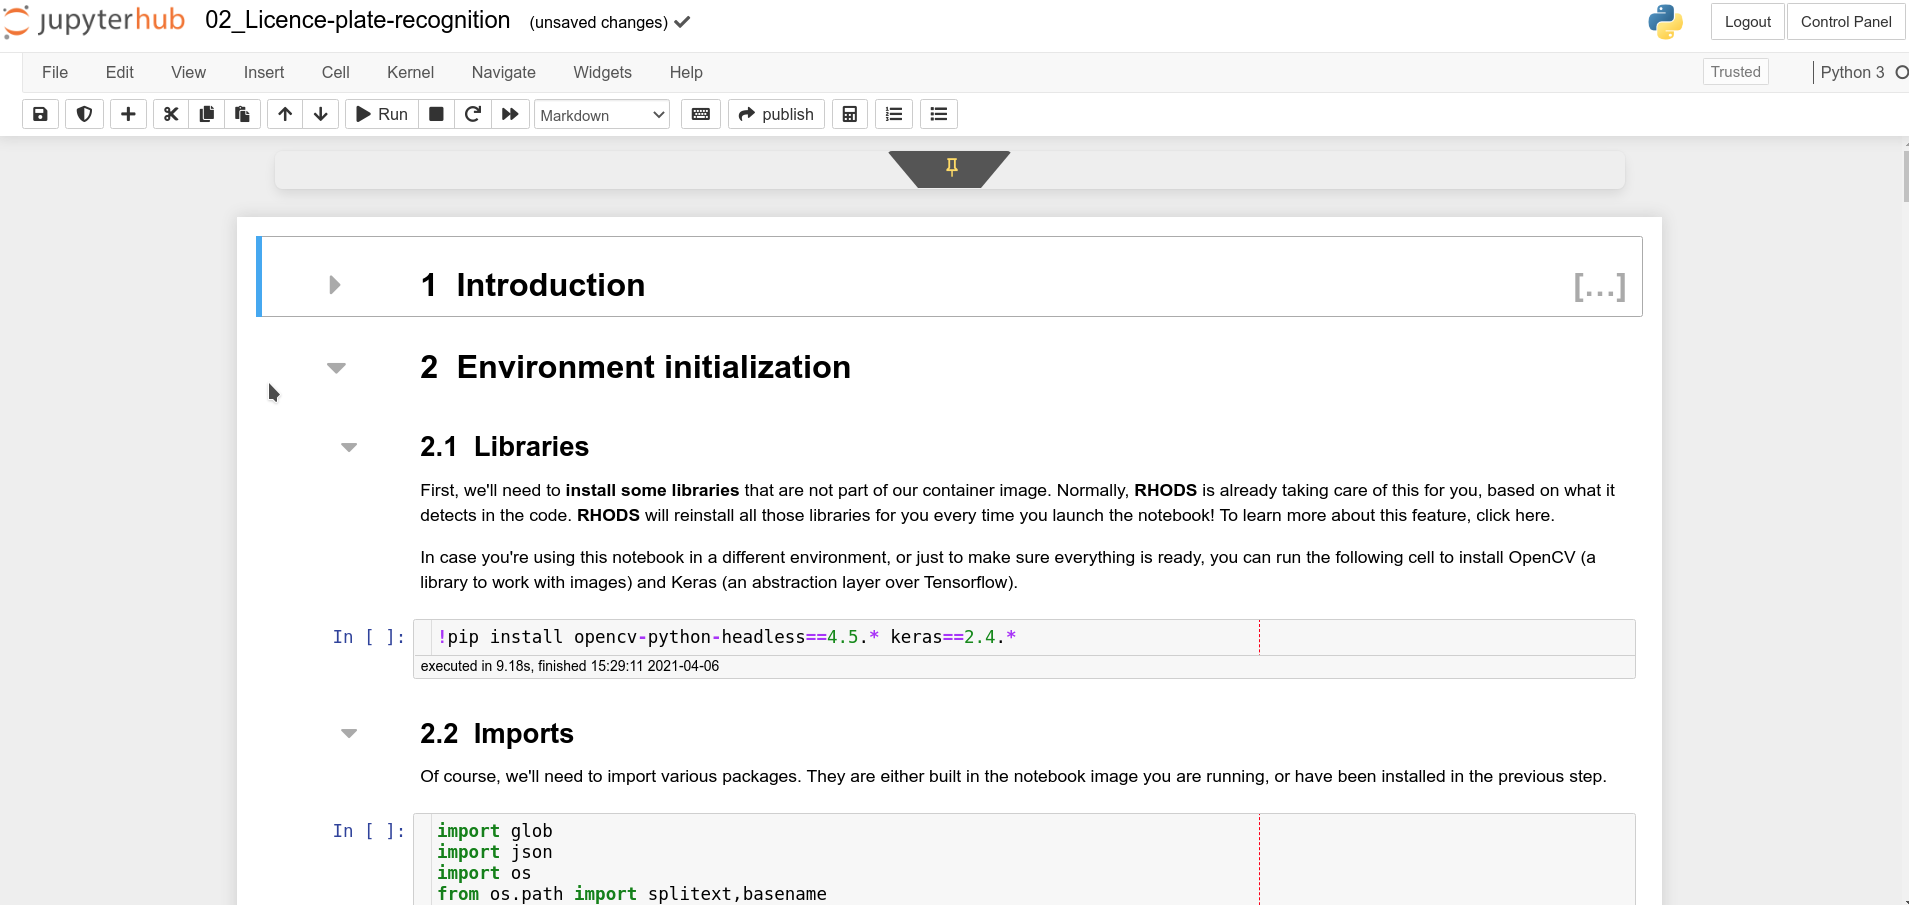
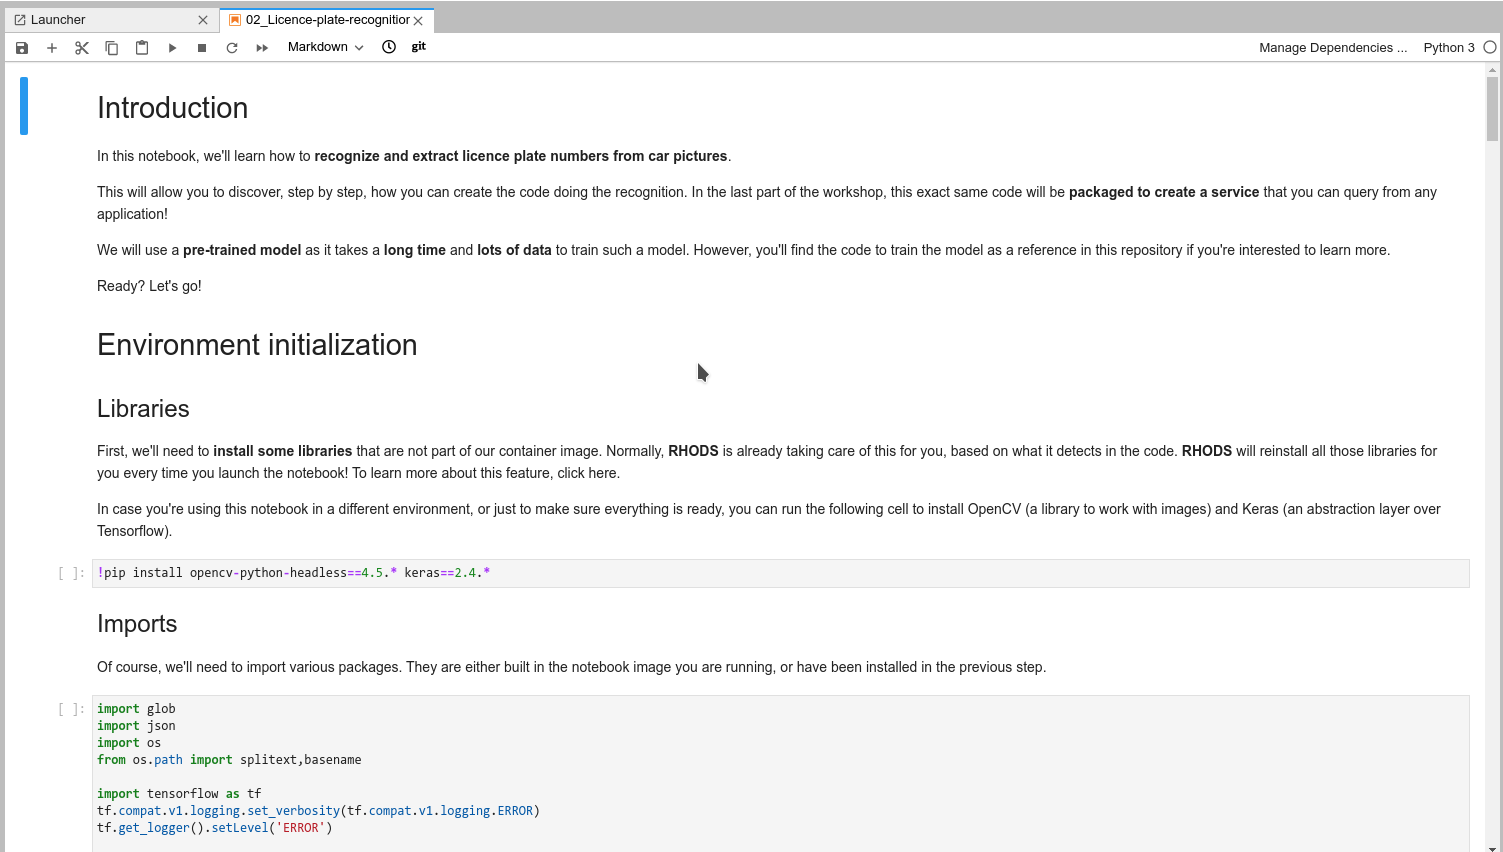
rhods env

diff --git a/docs/step3.md b/docs/step3.md
@@ -48,10 +48,16 @@ Therefore the name **Notebook**: it's exactly like if you were taking notes abou
 
 Now that we have covered the basics, just give it a try!
 
-* In your Jupyter environment (the file explorer-like interface), there is file called `01_sanbdbox.ipynb`. Double-click on it to launch the notebook (it will open another tab). Please feel free to experiment, run the cells, add some more, create functions,... You can do what you want, it's your environment, there is no risk of breaking anything or impacting other users. This environment isolation is also a great advantage brought by **RHODS**.
+* In your Jupyter environment (the file explorer-like interface), there is file called `01_sanbdbox.ipynb`. Double-click on it to launch the notebook (it will open another tab in the content section of the environment). Please feel free to experiment, run the cells, add some more, create functions,... You can do what you want, it's your environment, there is no risk of breaking anything or impacting other users. This environment isolation is also a great advantage brought by **RHODS**.
+  
+* You can create a new notebook by selecting `File`->`New`->`Notebook`from the menu on the top left, then select a Python 3 kernel. This instructs Jupyter that we want to create a new notebook where the code cells will be run using a Python 3 kernel. We could have different kernels, with different languages or versions that we can run into notebooks, but that's a story for another time...
 
-* You can also create a new notebook by selecting `New`->`Python 3`from the menu on the top right. This instructs Jupyter that we want to create a new notebook where the code cells will be run using a Python 3 kernel. We could have different kernels, with different languages or versions that we can run into notebooks, but that's a story for another time...
+* You can also create a notebook by simply clicking on the icon on the launcher:
 
-* If you want to learn more about notebooks, just go [there](https://jupyter.org/){:target="_blank"} .
+{:refdef: style="text-align: center;"}
+![alt text](./assets/img/new_notebook.png "Run cell")
+{: refdef}
+
+* If you want to learn more about notebooks, head to [this page](https://jupyter.org/){:target="_blank"} .
 
 Now that you're more familiar with notebooks, you're ready to [go to the next section](step4.html)

diff --git a/docs/step2.md b/docs/step2.md
@@ -10,31 +10,32 @@ You are now inside you Jupyter environment. As you can see, it's a web-based env
 
 In the "file-browser" like window you're in right now, you'll find the files and folders that are saved inside your own personal space inside **RHODS**. It's pretty empty right now though... So the first thing we will do is to bring the content of the workshop inside this environment.
 
-* On the upper right side click on `New`, then select `Terminal`:
+* On the left toolbar, click on the Git icon:
 
 {:refdef: style="text-align: center;"}
-![alt text](./assets/img/new_terminal.png "Launch a new Terminal")
+![alt text](./assets/img/git_icon.png "Git")
 {: refdef}
 
-This will open a new Tab on your browser, with access to a prompt.
+* Then click on "Clone a Repository":
 
-* From this promt, enter this command to copy the content of the workshop inside your environment:
+{:refdef: style="text-align: center;"}
+![alt text](./assets/img/clone_repo.png "Git")
+{: refdef}
 
-```bash
-git clone https://github.com/rh-aiservices-bu/licence-plate-workshop.git
-```
+* Enter this URL, `https://github.com/rh-aiservices-bu/licence-plate-workshop.git`, then click on clone:
 
-The content is now copied, with something that should look like:
+{:refdef: style="text-align: center;"}
+![alt text](./assets/img/clone_start.png "Git")
+{: refdef}
 
-```bash
-Cloning into 'licence-plate-workshop'...
-remote: Enumerating objects: 92, done.
-remote: Counting objects: 100% (92/92), done.
-remote: Compressing objects: 100% (71/71), done.
-remote: Total 92 (delta 18), reused 78 (delta 11), pack-reused 0
-Unpacking objects: 100% (92/92), 20.00 MiB | 542.00 KiB/s, done.
-```
+* It takes a few seconds, after which you can double-clik and navigate to the newly-created folder, `licence-plate-workshop`:
 
-* You can now just close this Terminal tab and get back to Jupyter.
+{:refdef: style="text-align: center;"}
+![alt text](./assets/img/lp_folder_click.png "Git")
+{: refdef}
+---
+{:refdef: style="text-align: center;"}
+![alt text](./assets/img/lp_folder.png "Git")
+{: refdef}
 
 [Ready? Let's go to the next section](step3.html)

diff --git a/docs/step6.md b/docs/step6.md
@@ -4,10 +4,10 @@ nav_order: 3
 ---
 [Back to the previous section](step5.html)
 
-# Conclusion
+# Packaging our application
 
-We hope you have enjoyed this workshop!
+Now that the application code is working, we're ready to package it as a container image, and have it running directly into OpenShift as a service you would be able to call from any other application.
 
-You have experienced first-hand how **RHODS** can simplify the onboarding of your AI/ML projects, providing an easy to use solution for your data scientists and data engineers.
+## Building the application inside OpenShift
 
-To learn more about **RHODS**, got to ...
+Once you're finished, you can come back here and [head to the next section](step7.html)

diff --git a/docs/step7.md b/docs/step7.md
@@ -1,0 +1,13 @@
+---
+layout: default
+nav_order: 3
+---
+[Back to the previous section](step6.html)
+
+# Conclusion
+
+We hope you have enjoyed this workshop!
+
+You have experienced first-hand how **RHODS** can simplify the onboarding of your AI/ML projects, providing an easy to use solution for your data scientists and data engineers.
+
+To learn more about **RHODS**, got to ...
